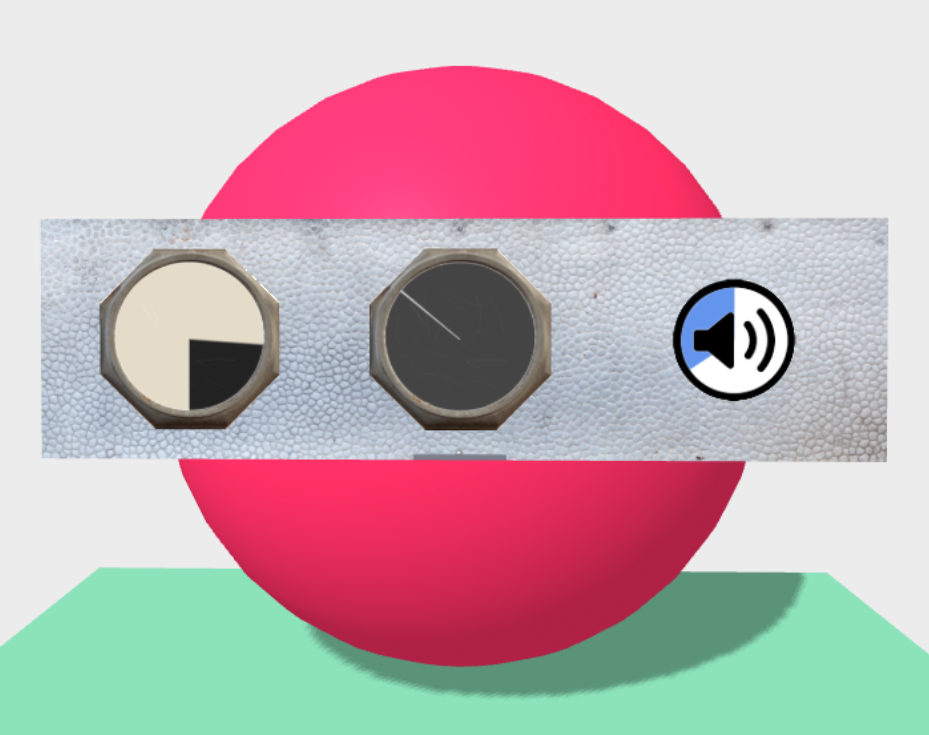
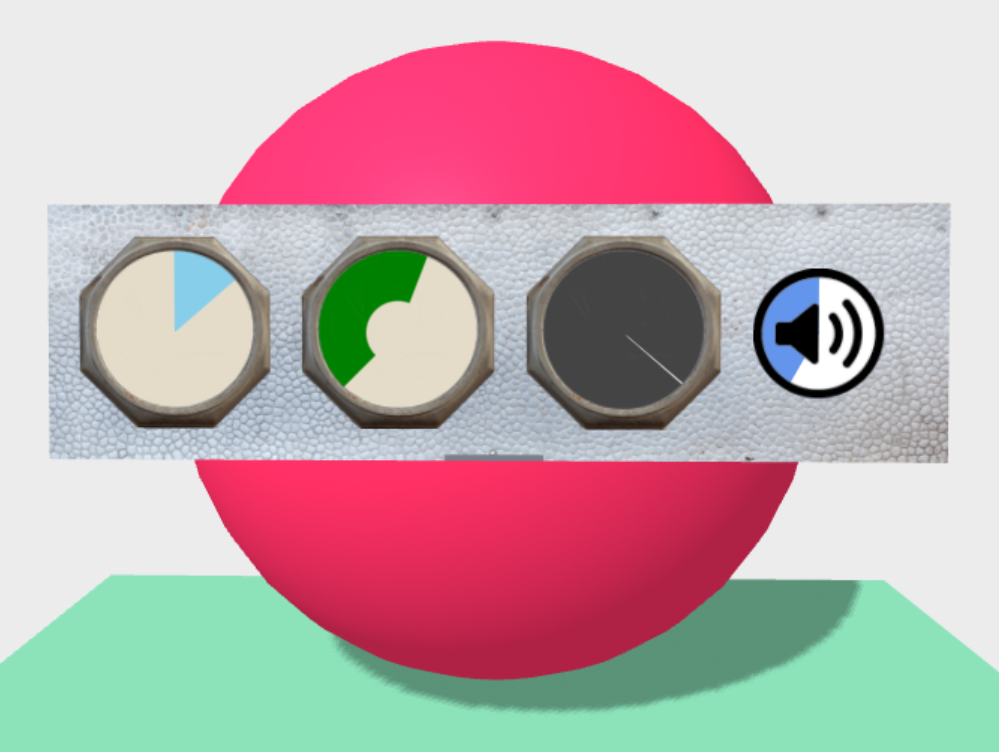
v1.2.0: Wedge may now be a circular bar

diff --git a/dist/dial.js b/dist/dial.js
@@ -1,1 +1,1 @@
-(()=>{var t={1:t=>{t.exports="#extension GL_OES_standard_derivatives : enable\n\nprecision mediump float;\n\nvarying vec2 vUv;\n\nuniform sampler2D uMap;\nuniform float uRadius;\nuniform float uThetaStart;   // −π to +π\nuniform float uThetaEnd;   // −π to +π\nuniform float uThetaMid;   // −π to +π\nuniform vec3 uWedgeColor;\nuniform vec3 uBackgroundColor;\n\nvoid main() {\n    const vec2 center = vec2(0.5, 0.5);\n\n    vec2 diff = vUv - center;\n    float theta = atan(diff.x, diff.y);\n    float radius = length(diff);\n#ifdef GL_OES_standard_derivatives\n    float edge = length(vec2(dFdx(vUv.x), dFdy(vUv.y))) / max(radius, 0.03);\n#else\n    float edge = 0.005 / max(radius, 0.03) * gl_FragCoord.z / gl_FragCoord.w;\n#endif\n    vec3 dynamicColor = uThetaStart == uThetaEnd ?\n        uBackgroundColor :\n        mix(uWedgeColor, uBackgroundColor,\n            smoothstep(-edge, +edge, theta < uThetaMid ? uThetaStart - theta :  theta - uThetaEnd));\n    vec4 diskColor = vec4(dynamicColor, 1.0);\n\n    vec4 texel = texture2D(uMap, vUv);\n    gl_FragColor = radius < uRadius ? mix(diskColor, texel, texel.a) : texel;\n}\n"},109:t=>{t.exports="// = object.matrixWorld\nuniform mat4 modelMatrix;\n\n// = camera.matrixWorldInverse * object.matrixWorld\nuniform mat4 modelViewMatrix;\n\n// = camera.projectionMatrix\nuniform mat4 projectionMatrix;\n\n// = camera.matrixWorldInverse\nuniform mat4 viewMatrix;\n\n// = inverse transpose of modelViewMatrix\nuniform mat3 normalMatrix;\n\n// = camera position in world space\nuniform vec3 cameraPosition;\n// default vertex attributes provided by Geometry and BufferGeometry\nattribute vec3 position;\nattribute vec3 normal;\nattribute vec2 uv;\n\nvarying vec2 vUv;\n\nvoid main() {\n    vUv = uv;\n    gl_Position = projectionMatrix * modelViewMatrix * vec4(position, 1.0);\n}\n"}},e={};function a(r){if(e[r])return e[r].exports;var n=e[r]={exports:{}};return t[r](n,n.exports,a),n.exports}a.n=t=>{var e=t&&t.__esModule?()=>t.default:()=>t;return a.d(e,{a:e}),e},a.d=(t,e)=>{for(var r in e)a.o(e,r)&&!a.o(t,r)&&Object.defineProperty(t,r,{enumerable:!0,get:e[r]})},a.o=(t,e)=>Object.prototype.hasOwnProperty.call(t,e),(()=>{"use strict";var t=a(109),e=a.n(t),r=a(1),n=a.n(r);AFRAME.registerComponent("dial",{schema:{size:{default:.25,min:.01},src:{type:"map"},radius:{default:.98,min:0},thetaStart:{default:0},thetaEnd:{default:230},wedgeColor:{type:"color",default:"black"},backgroundColor:{type:"color",default:"white"}},init:function(){this.initGeometry(this.data.size),this.initShader(this.data);const t=new THREE.Mesh(this.geometry,this.shaderMaterial);this.el.setObject3D("mesh",t)},initGeometry:function(t){const e=this.geometry=new THREE.BufferGeometry,a=t/2,r=[-a,-a,0,a,-a,0,-a,a,0,a,a,0];e.setIndex([3,2,0,0,1,3]),e.setAttribute("position",new THREE.Float32BufferAttribute(r,3)),e.setAttribute("uv",new THREE.Float32BufferAttribute([0,0,1,0,0,1,1,1],2))},initShader:function(t){const a=this.el.sceneEl.canvas.getContext("webgl");a&&a.getExtension("OES_standard_derivatives"),this.uniforms={uMap:{type:"t"},uRadius:{type:"f"},uThetaStart:{type:"f"},uThetaEnd:{type:"f"},uThetaMid:{type:"f"},uWedgeColor:{type:"v3"},uBackgroundColor:{type:"v3"}},this.shaderMaterial=new THREE.RawShaderMaterial({uniforms:this.uniforms,vertexShader:e(),fragmentShader:n(),transparent:!0}),this.textureLoader=new THREE.TextureLoader},update:function(t){this.uniforms.uRadius.value=this.data.radius/2;let e=this.data.thetaStart,a=this.data.thetaEnd,r=this.data.wedgeColor,n=this.data.backgroundColor;for(a-e>=360&&(e=-180,a=180);e<-180;)e+=360;for(;e>180;)e-=360;for(;a<-180;)a+=360;for(;a>180;)a-=360;if(a<e){const t=a;a=e,e=t;const o=r;r=n,n=o}this.uniforms.uThetaStart.value=e*Math.PI/180,this.uniforms.uThetaEnd.value=a*Math.PI/180,this.uniforms.uThetaMid.value=(this.uniforms.uThetaStart.value+this.uniforms.uThetaEnd.value)/2,this.uniforms.uWedgeColor.value=new THREE.Color(r),this.uniforms.uBackgroundColor.value=new THREE.Color(n),this.data.src!==t.src&&this.textureLoader.load(this.data.src.currentSrc,(t=>{this.shaderMaterial.uniforms.uMap.value=t,t.wrapS=t.wrapT=THREE.ClampToEdgeWrapping,t.magFilfer=THREE.LinearFilter}))}})})()})();
+(()=>{var e={1:e=>{e.exports="#extension GL_OES_standard_derivatives : enable\n\nprecision mediump float;\n\nvarying vec2 vUv;\n\nuniform sampler2D uMap;\nuniform float uRadius;\nuniform float uInnerRadius;\nuniform float uThetaStart;   // −π to +π\nuniform float uThetaEnd;   // −π to +π\nuniform float uThetaMid;   // −π to +π\nuniform vec3 uWedgeColor;\nuniform vec3 uRingBackgroundColor;\nuniform vec3 uBackgroundColor;\n\nvoid main() {\n    const vec2 center = vec2(0.5, 0.5);\n\n    vec2 diff = vUv - center;\n    float theta = atan(diff.x, diff.y);\n    float radius = length(diff);\n#ifdef GL_OES_standard_derivatives\n    float linearEdge = length(vec2(dFdx(vUv.x), dFdy(vUv.y)));\n    float radialEdge = linearEdge / max(radius, 0.03);\n#else\n    float linearEdge = 0.005 * gl_FragCoord.z / gl_FragCoord.w;\n    float radialEdge = linearEdge / max(radius, 0.03);\n#endif\n    vec3 ringColor = uThetaStart == uThetaEnd ?\n        uBackgroundColor :\n        mix(uWedgeColor, uRingBackgroundColor,\n            smoothstep(-radialEdge, +radialEdge, theta < uThetaMid ? uThetaStart - theta :  theta - uThetaEnd));\n\n    vec3 dynamicColor = mix(uBackgroundColor, ringColor, smoothstep(-linearEdge, +linearEdge, radius - uInnerRadius));\n\n    vec4 diskColor = vec4(dynamicColor, 1.0);\n\n    vec4 texel = texture2D(uMap, vUv);\n    gl_FragColor = radius < uRadius ? mix(diskColor, texel, texel.a) : texel;\n}\n"},109:e=>{e.exports="// = object.matrixWorld\nuniform mat4 modelMatrix;\n\n// = camera.matrixWorldInverse * object.matrixWorld\nuniform mat4 modelViewMatrix;\n\n// = camera.projectionMatrix\nuniform mat4 projectionMatrix;\n\n// = camera.matrixWorldInverse\nuniform mat4 viewMatrix;\n\n// = inverse transpose of modelViewMatrix\nuniform mat3 normalMatrix;\n\n// = camera position in world space\nuniform vec3 cameraPosition;\n// default vertex attributes provided by Geometry and BufferGeometry\nattribute vec3 position;\nattribute vec3 normal;\nattribute vec2 uv;\n\nvarying vec2 vUv;\n\nvoid main() {\n    vUv = uv;\n    gl_Position = projectionMatrix * modelViewMatrix * vec4(position, 1.0);\n}\n"}},t={};function a(r){if(t[r])return t[r].exports;var n=t[r]={exports:{}};return e[r](n,n.exports,a),n.exports}a.n=e=>{var t=e&&e.__esModule?()=>e.default:()=>e;return a.d(t,{a:t}),t},a.d=(e,t)=>{for(var r in t)a.o(t,r)&&!a.o(e,r)&&Object.defineProperty(e,r,{enumerable:!0,get:t[r]})},a.o=(e,t)=>Object.prototype.hasOwnProperty.call(e,t),(()=>{"use strict";var e=a(109),t=a.n(e),r=a(1),n=a.n(r);AFRAME.registerComponent("dial",{schema:{size:{default:.25,min:.01},src:{type:"map"},radius:{default:.98,min:0},innerRadius:{default:0,min:0},thetaStart:{default:0},thetaEnd:{default:230},wedgeColor:{type:"color",default:"black"},backgroundColor:{type:"color",default:"white"}},init:function(){this.initGeometry(this.data.size),this.initShader(this.data);const e=new THREE.Mesh(this.geometry,this.shaderMaterial);this.el.setObject3D("mesh",e)},initGeometry:function(e){const t=this.geometry=new THREE.BufferGeometry,a=e/2,r=[-a,-a,0,a,-a,0,-a,a,0,a,a,0];t.setIndex([3,2,0,0,1,3]),t.setAttribute("position",new THREE.Float32BufferAttribute(r,3)),t.setAttribute("uv",new THREE.Float32BufferAttribute([0,0,1,0,0,1,1,1],2))},initShader:function(e){const a=this.el.sceneEl.canvas.getContext("webgl");a&&a.getExtension("OES_standard_derivatives"),this.uniforms={uMap:{type:"t"},uRadius:{type:"f"},uInnerRadius:{type:"f"},uThetaStart:{type:"f"},uThetaEnd:{type:"f"},uThetaMid:{type:"f"},uWedgeColor:{type:"v3"},uRingBackgroundColor:{type:"v3"},uBackgroundColor:{type:"v3"}},this.shaderMaterial=new THREE.RawShaderMaterial({uniforms:this.uniforms,vertexShader:t(),fragmentShader:n(),transparent:!0}),this.textureLoader=new THREE.TextureLoader},update:function(e){this.uniforms.uRadius.value=this.data.radius/2,this.uniforms.uInnerRadius.value=Math.min(this.data.innerRadius/2,this.uniforms.uRadius.value-.01);let t=this.data.thetaStart,a=this.data.thetaEnd,r=this.data.wedgeColor,n=this.data.backgroundColor;for(a-t>=360&&(t=-180,a=180);t<-180;)t+=360;for(;t>180;)t-=360;for(;a<-180;)a+=360;for(;a>180;)a-=360;if(a<t){const e=a;a=t,t=e,r=this.data.backgroundColor,n=this.data.wedgeColor}this.uniforms.uThetaStart.value=t*Math.PI/180,this.uniforms.uThetaEnd.value=a*Math.PI/180,this.uniforms.uThetaMid.value=(this.uniforms.uThetaStart.value+this.uniforms.uThetaEnd.value)/2,this.uniforms.uWedgeColor.value=new THREE.Color(r),this.uniforms.uRingBackgroundColor.value=new THREE.Color(n),this.uniforms.uBackgroundColor.value=new THREE.Color(this.data.backgroundColor),this.data.src!==e.src&&this.textureLoader.load(this.data.src.currentSrc,(e=>{this.shaderMaterial.uniforms.uMap.value=e,e.wrapS=e.wrapT=THREE.ClampToEdgeWrapping,e.magFilfer=THREE.LinearFilter}))}})})()})();

diff --git a/example.html b/example.html
@@ -23,18 +23,55 @@ AFRAME.registerComponent('gazecursorifneeded',{
   }
 });
 
-AFRAME.registerComponent('fluctuation', {
+AFRAME.registerComponent('fluctuation1', {
   init: function () {
-    this.startRand = 0;
-    this.endRand = 45;
+    this.el.setAttribute('dial', 'thetaStart', 0);
+    this.endRand = 90;
+    this.up = true;
   },
   tick: function (time) {
-    this.startRand += (Math.random() - 0.41);
-    this.endRand += (Math.random() - 0.4);
-    const thetaStart = Math.cos(time/1500) * 20 + this.startRand;
+    if (this.up) {
+      this.endRand += (Math.random() - 0.35);
+    } else {
+      this.endRand -= (Math.random() - 0.4);
+    }
     const thetaEnd = Math.sin(time/1000) * 20 + this.endRand;
-    this.el.setAttribute('dial', 'thetaStart', thetaStart);
+    if (thetaEnd >= 330) {
+      this.up = false;
+    } else if (thetaEnd <= 30) {
+      this.up = true;
+    }
     this.el.setAttribute('dial', 'thetaEnd', thetaEnd);
+  }
+});
+
+AFRAME.registerComponent('fluctuation2', {
+  init: function () {
+    this.el.setAttribute('dial', 'thetaStart', -135);
+    this.endRand = -90;
+    this.up = true;
+  },
+  tick: function (time) {
+    if (this.up) {
+      this.endRand += (Math.random() - 0.4);
+    } else {
+      this.endRand -= (Math.random() - 0.35);
+    }
+    const thetaEnd = Math.cos(time/1000) * 20 + this.endRand;
+    if (thetaEnd >= 120) {
+      this.up = false;
+    } else if (thetaEnd <= -90) {
+      this.up = true;
+    }
+    this.el.setAttribute('dial', 'thetaEnd', thetaEnd);
+
+    if (thetaEnd < 45) {
+      this.el.setAttribute('dial', 'wedgeColor', 'green');
+    } else if (thetaEnd < 90) {
+      this.el.setAttribute('dial', 'wedgeColor', 'orange');
+    } else {
+      this.el.setAttribute('dial', 'wedgeColor', 'red');
+    }
   }
 });
 
@@ -95,15 +132,19 @@ AFRAME.registerComponent('cooldown-button', {
         <img id="metal" src="./assets/TexturesCom_MetalVarious0052_1_M.jpg">
       </a-assets>
       <a-plane position="0 1.5 -1.51" rotation="0 0 0" width="1.4" height="0.40" src="#metal">
-        <a-entity position="-0.45 0 0.002" rotation="0 0 0"
-                  dial="size:0.30; src:#bezel; radius:0.95; thetaStart:0; thetaEnd:45; wedgeColor:#222; backgroundColor:#e4dcc9;"
-                  fluctuation
+        <a-entity position="-0.50 0 0.002" rotation="0 0 0"
+                  dial="size:0.30; src:#bezel; radius:0.95; thetaStart:0; thetaEnd:45; wedgeColor:skyblue; backgroundColor:#e4dcc9;"
+                  fluctuation1
         ></a-entity>
-        <a-entity position="0 0 0.002" rotation="0 0 0" scale="1 1 1"
+        <a-entity position="-0.15 0 0.002" rotation="0 0 0"
+                  dial="size:0.30; src:#bezel; radius:0.95; innerRadius:0.33; thetaStart:0; thetaEnd:45; wedgeColor:#222; backgroundColor:#e4dcc9;"
+                  fluctuation2
+        ></a-entity>
+        <a-entity position="0.20 0 0.002" rotation="0 0 0" scale="1 1 1"
                   dial="size:0.30; src:#bezel; radius:0.95; thetaStart:10; thetaEnd:11; wedgeColor:white; backgroundColor:#444"
                   needle
         ></a-entity>
-        <a-entity position="0.45 0 0.002" rotation="0 0 0" scale="1 1 1"
+        <a-entity position="0.50 0 0.002" rotation="0 0 0" scale="1 1 1"
                   dial="size:0.20; src:#speakerOff; radius:0.95; thetaStart:0; thetaEnd:0; wedgeColor:cornflowerblue; backgroundColor:white"
                   cooldown-button sound="src:#whale"
         ></a-entity>

diff --git a/src/dial.js b/src/dial.js
@@ -6,6 +6,7 @@ AFRAME.registerComponent('dial', {
     size: {default: 0.25, min: 0.01},
     src: {type: 'map'},
     radius: {default: 0.98, min: 0},
+    innerRadius: {default: 0, min: 0},
     thetaStart: {default: 0},
     thetaEnd: {default: 230},
     wedgeColor: {type: 'color', default: 'black'},
@@ -60,10 +61,12 @@ AFRAME.registerComponent('dial', {
     this.uniforms = {
       uMap: {type: 't'},
       uRadius: {type: 'f'},
+      uInnerRadius: {type: 'f'},
       uThetaStart: {type: 'f'},
       uThetaEnd: {type: 'f'},
       uThetaMid: {type: 'f'},
       uWedgeColor: {type: 'v3'},
+      uRingBackgroundColor: {type: 'v3'},
       uBackgroundColor: {type: 'v3'},
     };
     this.shaderMaterial = new THREE.RawShaderMaterial({
@@ -78,11 +81,12 @@ AFRAME.registerComponent('dial', {
 
   update: function (oldData) {
     this.uniforms.uRadius.value = this.data.radius / 2;
+    this.uniforms.uInnerRadius.value = Math.min(this.data.innerRadius / 2, this.uniforms.uRadius.value - 0.01);
 
     let thetaStart = this.data.thetaStart;   // avoids modifying the attributes
     let thetaEnd = this.data.thetaEnd;
     let wedgeColor = this.data.wedgeColor;
-    let backgroundColor = this.data.backgroundColor;
+    let ringBackgroundColor = this.data.backgroundColor;
     if (thetaEnd - thetaStart >= 360) {
       thetaStart = -180;
       thetaEnd = +180;
@@ -103,15 +107,16 @@ AFRAME.registerComponent('dial', {
       const temp = thetaEnd;
       thetaEnd = thetaStart;
       thetaStart = temp;
-      const tempColor = wedgeColor;
-      wedgeColor = backgroundColor;
-      backgroundColor = tempColor
+      wedgeColor = this.data.backgroundColor;
+      ringBackgroundColor = this.data.wedgeColor
     }
     this.uniforms.uThetaStart.value = thetaStart * Math.PI / 180;
     this.uniforms.uThetaEnd.value = thetaEnd * Math.PI / 180;
     this.uniforms.uThetaMid.value = (this.uniforms.uThetaStart.value + this.uniforms.uThetaEnd.value) / 2;
     this.uniforms.uWedgeColor.value = new THREE.Color(wedgeColor);
-    this.uniforms.uBackgroundColor.value = new THREE.Color(backgroundColor);
+    this.uniforms.uRingBackgroundColor.value = new THREE.Color(ringBackgroundColor);
+
+    this.uniforms.uBackgroundColor.value = new THREE.Color(this.data.backgroundColor);
 
     // console.log("θ start:", this.uniforms.uThetaStart, "   θ end", this.uniforms.uThetaEnd)
 

diff --git a/README.md b/README.md
@@ -1,6 +1,6 @@
 # Dial for A-Frame WebXR
 
-A component with a transparent bezel texture and dynamic pie-wedge shape, suitable for a timer, gauge, or button with cooldown timer.
+A component with a transparent bezel texture and dynamic pie-wedge or circular bar shape. Suitable for a timer, gauge, or button with cooldown timer.
 It ignores scene lighting.
 Packaged for the [A-Frame](https://aframe.io) framework for [WebXR](https://immersive-web.github.io/).
 
@@ -11,7 +11,7 @@ Packaged for the [A-Frame](https://aframe.io) framework for [WebXR](https://imme
 
 Include using
 ```html
-<script src="https://unpkg.com/aframe-dial@^1.1.0/dist/dial.js"></script>
+<script src="https://unpkg.com/aframe-dial@^1.2.0/dist/dial.js"></script>
 ```
 
 
@@ -34,21 +34,25 @@ default **0.25**
 
 ### src
 An image of the bezel, numerals, screws, scratches in the glass, etc., or icon if you're using this as a button.
-Should be opaque at *radius* distance from center, to hide the edge of the pie wedge and background.
+Should be opaque at *radius* distance from center, to hide the edge of the pie wedge (or circular bar) and background.
 Should be mostly transparent in the center, to let the wedge and background show.
 Image should be square.
 
 ### radius
-radius of pie wedge and background disk, *relative to overall size of dial*.  default **0.98**
+outer radius of pie wedge (or circular bar) and background disk, *relative to overall size of dial*.  default **0.98**
+
+### innerRadius
+Leave at 0 for a pie wedge, set 0 < innerRadius < radius to generate a circular bar instead of a pie wedge.
+default **0**
 
 ### thetaStart
-start angle of pie wedge, in degrees clockwise from top; default **0**
+start angle of pie wedge (or circular bar), in degrees clockwise from top. May be negative. default **0**
 
 ### thetaEnd
-end angle of pie wedge, in degrees clockwise from top; default **230**
+end angle of pie wedge (or circular bar), in degrees clockwise from top. May be negative. default **230**
 
 ### wedgeColor
-color of pie wedge, default **black**
+color of pie wedge (or circular bar), default **black**
 
 ### backgroundColor
 color of pie background, default **white**
